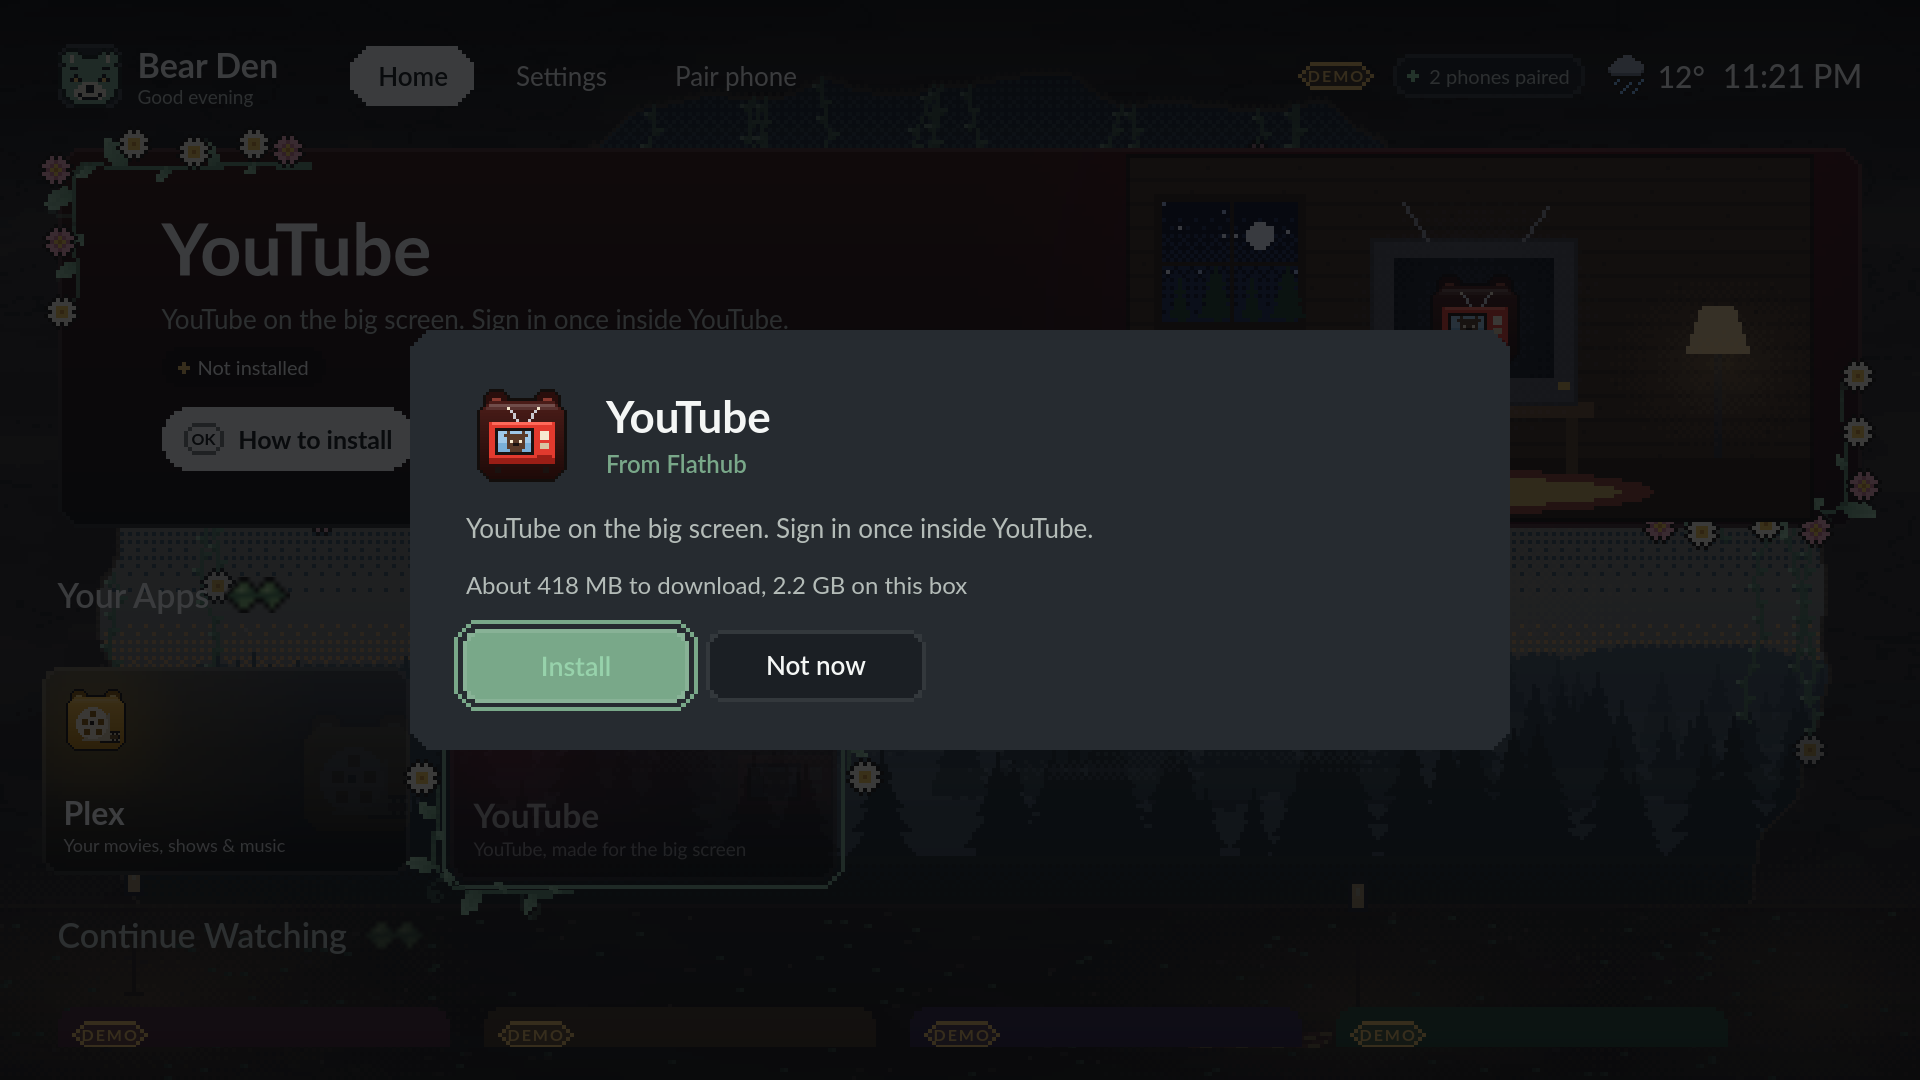
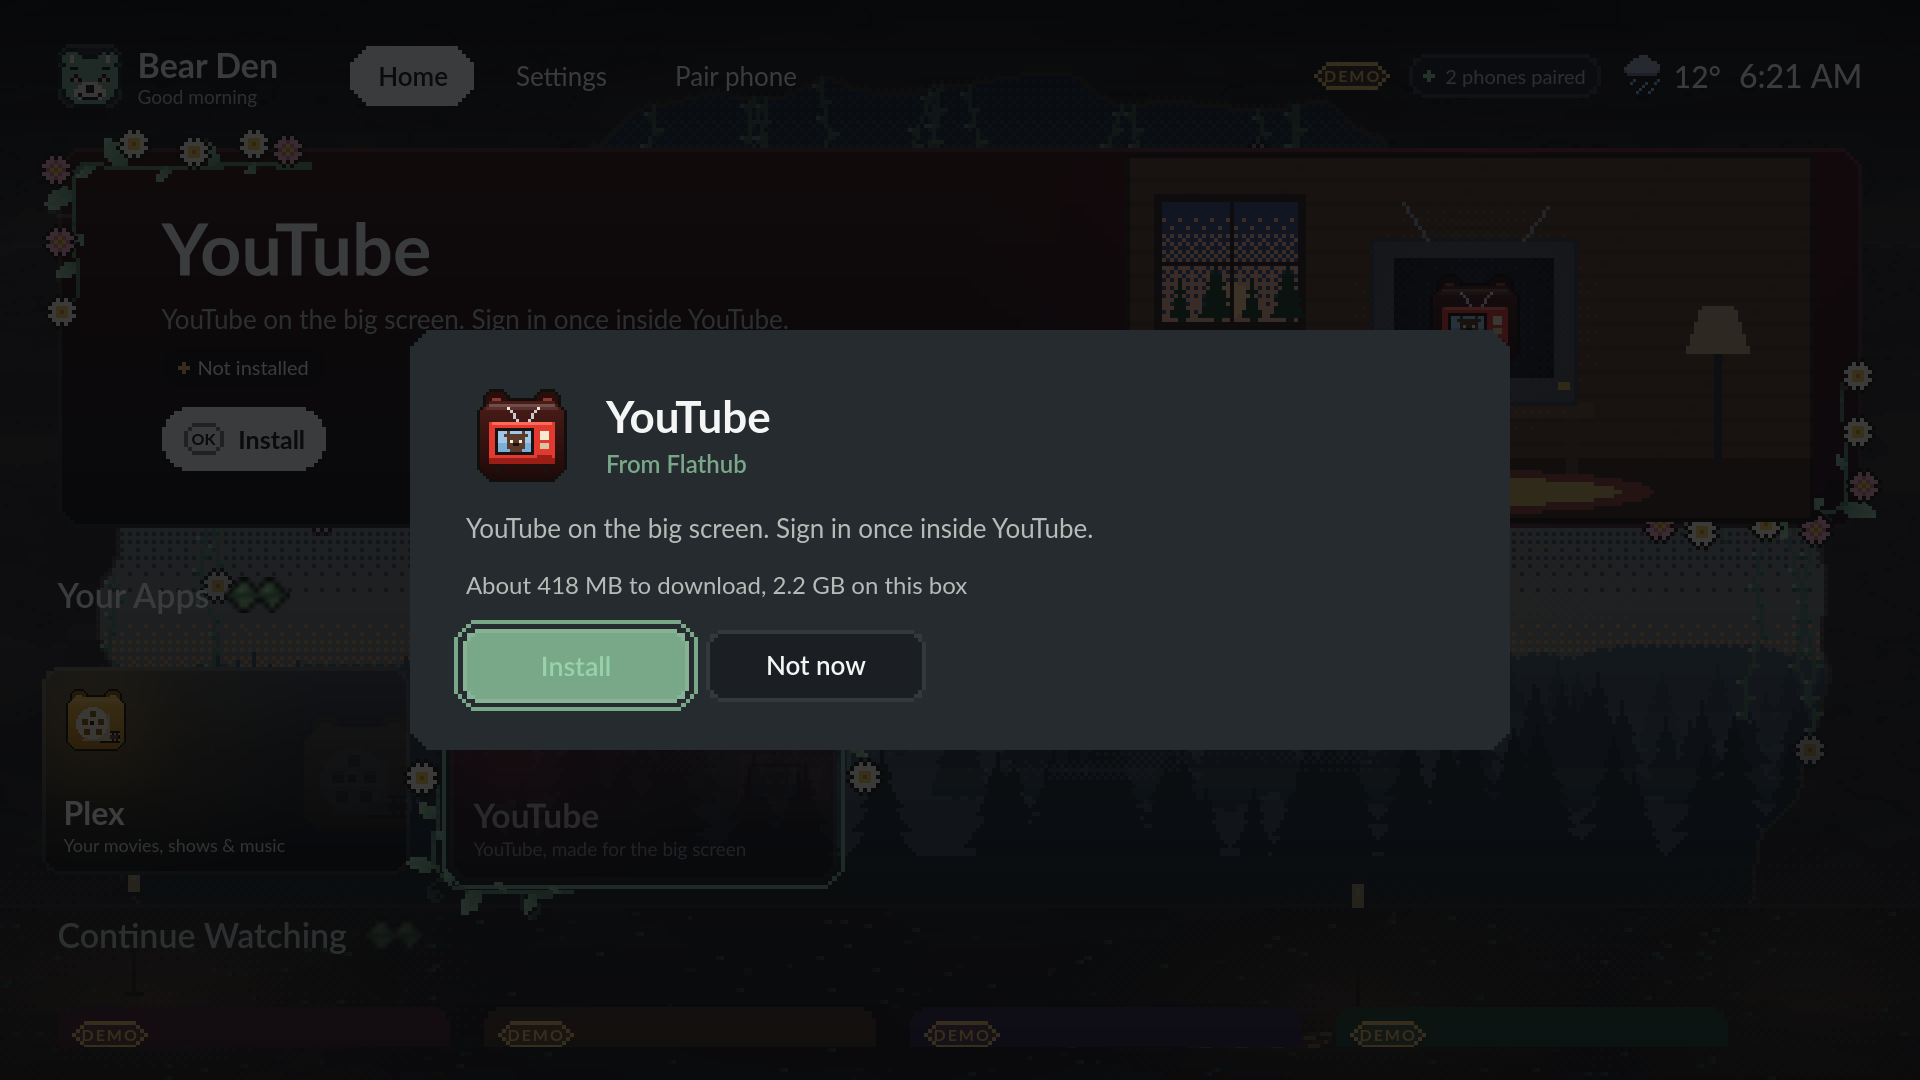
Re-render the install card screenshots with the Install wording
The install card screenshots were taken before commit cfecad7 changed the
featured panel's "How to install" to "Install", so the panel behind the
card showed the old words. install-card.png, install-card-progress.png
and install-tile-progress.png are re-rendered from the same tst_shell
test (installCardInstallsWithProgressAndOpensWhenDone, BDTV_SCREENSHOT_DIR,
offscreen, DEMO fixture, Bear Den's own icons) and the status page's note
about the old wording is replaced.

Claude-Session: https://claude.ai/code/session_01BmQLa9f99qm8n2RsTosNcr

diff --git a/docs/IMPLEMENTATION_STATUS.md b/docs/IMPLEMENTATION_STATUS.md
@@ -28,7 +28,7 @@ Commands are explained in [`operations.md`](operations.md).
 ### Screenshots
 
 - [`docs/screenshots/readme/`](screenshots/readme/) shows the current pixel-art look (sandbox renders).
-- [`2026-09-28-app-installs/`](screenshots/2026-09-28-app-installs/): one-press app installs. Taken before the wording change of commit `cfecad7`: behind the install card the featured panel still reads "How to install", where the code now says Install. TV (offscreen `tst_shell` renders of the DEMO fixture with install state added, Pixel): the install card with its size, the card mid-install, the tile mid-install after Back, Settings → Add apps (YouTube and one Chromium row), Streaming sites turning Netflix on without Chromium, and the card without Flatpak. Phone (Playwright Chromium 390×844 against `bear-den-tv dev --dev-installs --dev-fixtures --no-shell` with a private data root, the phone paired and granted owner over IPC): Add apps in Pixel, Moonlight installing in Pixel and Classic, and after the pretend install (Moonlight's tile live, its row gone).
+- [`2026-09-28-app-installs/`](screenshots/2026-09-28-app-installs/): one-press app installs. The install card, the card mid-install and the tile mid-install were re-rendered on 2026-09-29, after the wording change of commit `cfecad7`, so the featured panel behind the card reads Install. TV (offscreen `tst_shell` renders of the DEMO fixture with install state added, Pixel): the install card with its size, the card mid-install, the tile mid-install after Back, Settings → Add apps (YouTube and one Chromium row), Streaming sites turning Netflix on without Chromium, and the card without Flatpak. Phone (Playwright Chromium 390×844 against `bear-den-tv dev --dev-installs --dev-fixtures --no-shell` with a private data root, the phone paired and granted owner over IPC): Add apps in Pixel, Moonlight installing in Pixel and Classic, and after the pretend install (Moonlight's tile live, its row gone).
 - [`2026-09-28-web-apps/`](screenshots/2026-09-28-web-apps/): web apps. TV: Home with the Netflix, Disney+, Hulu and Browser tiles in Pixel and Classic ("Up to 720p" on the streaming tiles until first opened) and Settings → Streaming sites in both styles (sandbox renders of the demo fixture with the four web apps added); the pixel app icons sheet. A local fixture page (DEMO poster grid, no real service) with the navigation script's focus ring, from the Playwright suite. Phone: the Touchpad with the Browser in front, captured against `bear-den-tv dev --dev-fixtures --no-shell` (fake desktop, pretend web page), paired with a code from `bear-den-tv pair`, Playwright's Chromium at 390×844; a drag and a tap there sent `pointer.move` ×7 and `pointer.click`. Nothing here is seen on the TV or on a real streaming site.
 - [`2026-09-28-badges/`](screenshots/2026-09-28-badges/): Den badges. TV: Settings → Badges in Pixel and Classic (sandbox renders of the DEMO fixture's six earned badges), the shelf with a silhouette focused (`tst_shell` `badgesScreenShelfToggleAndReset`), and the "New badge!" celebration on Home in both styles (sandbox, 0.7 s in). Phone: the Badges tab in Pixel and Classic, captured on this workstation against `bear-den-tv dev --dev-fixtures --no-shell` (fake desktop), paired with a code from `bear-den-tv pair`, driven by Playwright's Chromium at 390×844; the two badges were earned for real there (a guest pass issued, an app opened from the phone). None of it is seen on the TV.
 - [`2026-09-28-hdmi-cec/`](screenshots/2026-09-28-hdmi-cec/): TV Settings → TV control over HDMI (CEC) without an adapter (the reason shown) and turned on with the volume buttons on the TV (offscreen shell test renders, Pixel, from DEMO `state.cec`); the phone's TV volume and TV section with the TV on, then after TV standby. Phone captures on this workstation against the fake TV, not hardware: `bear-den-tv dev --dev-fixtures --no-shell` with `cec: {"enabled": true, "volume_target": "tv"}` written into the dev `config.json`, paired with a code from `bear-den-tv pair`, Playwright's Chromium at 390×844.
